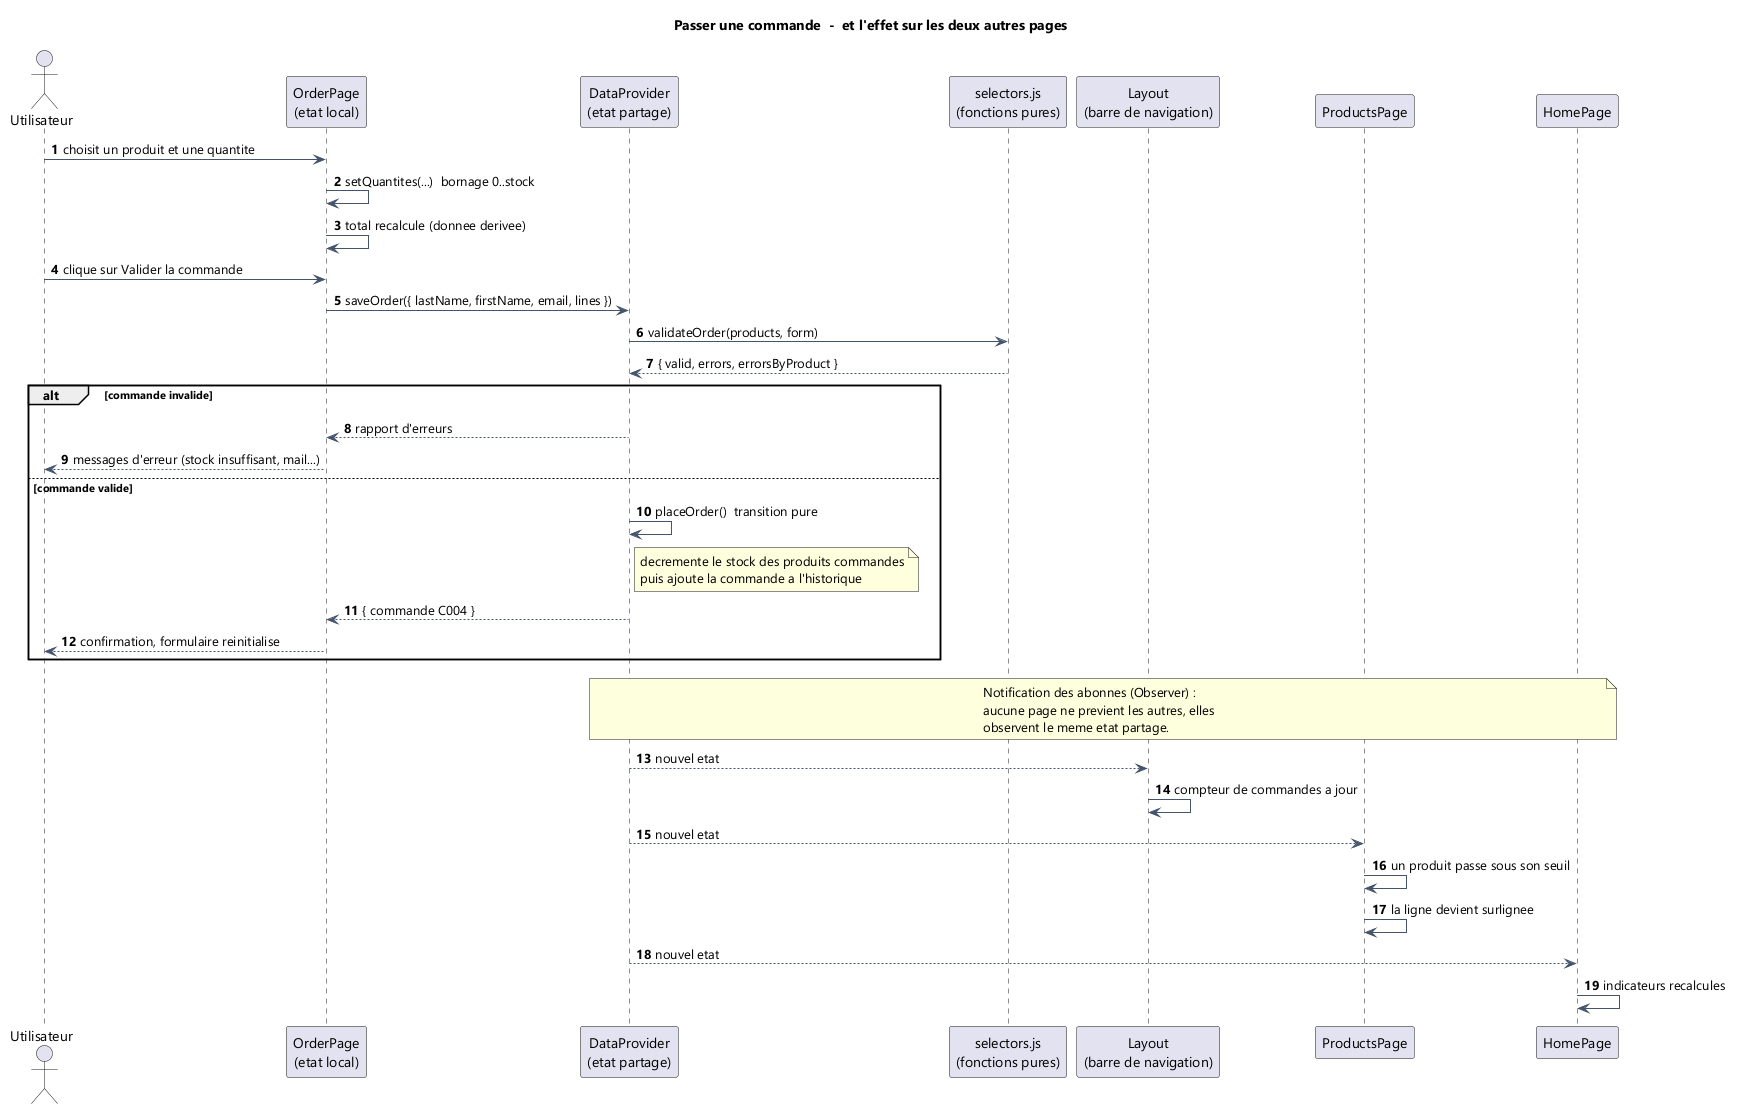
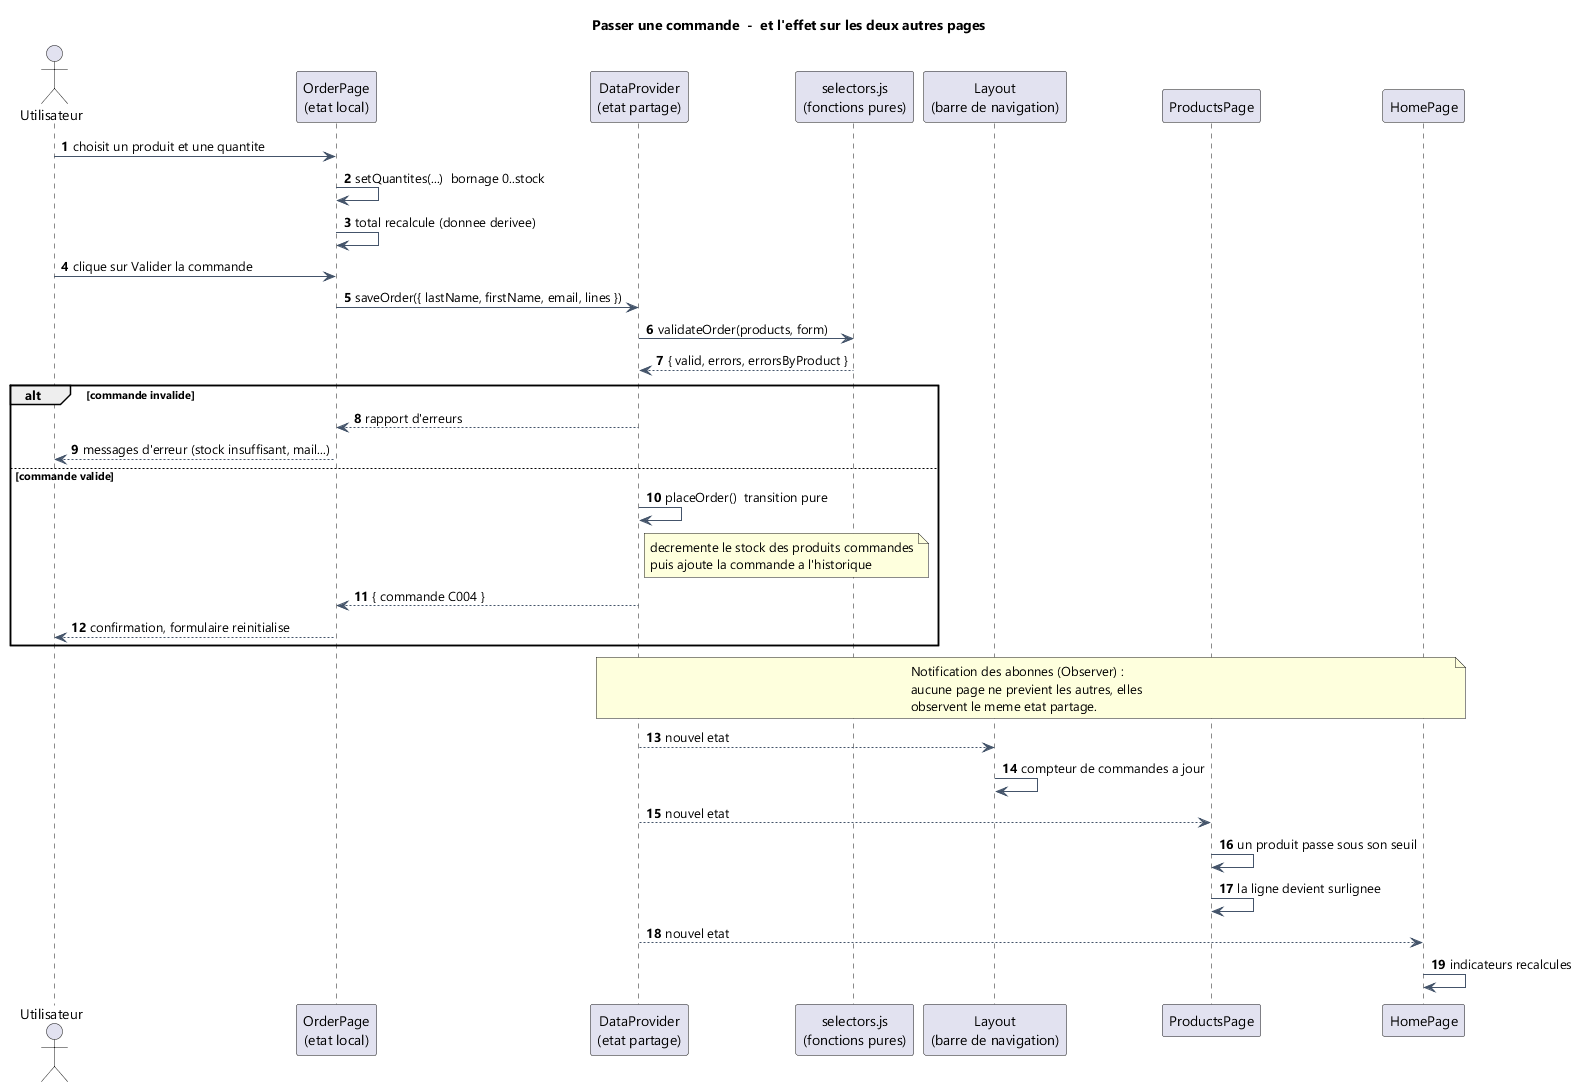
docs: declare l'atome Select dans le compte-rendu, AGENTS et les diagrammes
- compte-rendu 2.1 : quatrieme atome (standard) + ProductFilter compose les quatre
- AGENTS 4 : propriete du dossier form/ mise a jour
- README 7 : plus de nombre de pages fige (il derive a chaque regeneration)
- diagrammes 01 et 02 : form/Select ajoute ; les trois figures sont regenerees
  avec PlantUML 1.2025.4 (GraphViz absent de la machine : la mise en page
  differe legerement des rendus precedents)

diff --git a/docs/analyse-design-patterns.md b/docs/analyse-design-patterns.md
@@ -44,10 +44,11 @@ Deux séparations structurent tout le code :
 
 | Composant | Catégorie | Ce qui le rend standard / non standard |
 |---|---|---|
-| `Input`, `Range`, `Checkbox` | **Standard** | Les trois atomes du cours (exercice 4) : ils ignorent le métier — « j'affiche une valeur, et je préviens quand elle change ». Tous les trois composent le filtre produits, exactement comme la `SearchBar` du cours (Input + Checkbox + Range). |
+| `Input`, `Range`, `Checkbox` | **Standard** | Les trois atomes du cours (exercice 4) : ils ignorent le métier — « j'affiche une valeur, et je préviens quand elle change ». Avec `Select`, tous composent le filtre produits, exactement comme la `SearchBar` du cours (Input + Checkbox + Range). |
+| `Select` | **Standard** | Quatrième atome, ajouté par le projet : même famille que les trois autres (un `id`, un libellé, une valeur, un `onChange`). Le filtre de catégorie l'utilise au lieu d'écrire un `<select>` à la main dans l'orchestrateur. Il n'existe pas dans l'exercice 4, où la recherche était purement textuelle. |
 | `RowProduct` / `OrderRow` | **Standard** | Présentation pure, pilotés entièrement par leurs `props`. |
 | `QuantitySelector` | **Standard** | Ignore le métier : affiche « une quantité bornée dans [0, max] ». Réutilisable hors du projet. |
-| `ProductFilter` | **Non standard** | Orchestrateur : compose les trois atomes, agrège les 5 critères d'attribut **et** les deux critères dérivés (« sous le seuil », « en rupture »), totalement contrôlé, et **un port de sortie par filtre** — exactement la structure du modèle de composants du cours. |
+| `ProductFilter` | **Non standard** | Orchestrateur : compose les quatre atomes (Input, Checkbox, Range, Select), agrège les 5 critères d'attribut **et** les deux critères dérivés (« sous le seuil », « en rupture »), totalement contrôlé, et **un port de sortie par filtre** — exactement la structure du modèle de composants du cours. |
 | `TableProducts` | **Non standard** | Composite : regroupe par catégorie et **fabrique** ses lignes (donnée dérivée calculée au rendu). |
 | `TableCategory` | **Non standard** | Composant « structurel » : il ne connaît qu'un titre de groupe et un nombre d'éléments, jamais un produit. |
 | `KpiCard` | **Non standard** | À facette : `props.children` — la carte fournit le cadre, l'appelant fournit le contenu. |

diff --git a/AGENTS.md b/AGENTS.md
@@ -62,7 +62,7 @@ Deux langues, avec une frontière nette :
 |---|---|
 | `src/store/**`, `docs/**`, `src/pages/OrderPage.jsx`, `src/components/order/**` | SONG Wenkai |
 | `src/pages/HomePage.jsx`, `src/pages/ProductsPage.jsx`, `src/components/products/**`, `src/components/indicators/**`, `src/data/seed.js` | SUI Wenhui |
-| `src/components/form/**` (atomes réutilisables : Input, Checkbox, Range) | SUI Wenhui (créés par lui) |
+| `src/components/form/**` (atomes réutilisables : Input, Checkbox, Range, puis Select) | SUI Wenhui, complété par SONG Wenkai |
 | `package.json`, `package-lock.json`, `.oxlintrc.json`, `AGENTS.md`, `README.md` | accord des deux |
 
 ## 5. Interdits explicites

diff --git a/README.md b/README.md
@@ -199,7 +199,7 @@ with zipfile.ZipFile(out, "w", zipfile.ZIP_DEFLATED) as z:
 PY
 ```
 
-Le document est `docs/SONG-Wenkai_SUI-Wenhui.pdf` (11 pages A4, figures vectorielles).
+Le document est `docs/SONG-Wenkai_SUI-Wenhui.pdf` (A4, figures vectorielles).
 Il est donc **déjà dans le dossier du projet**, et on le place aussi à la racine du zip
 pour qu'il soit visible au premier coup d'œil.
 
